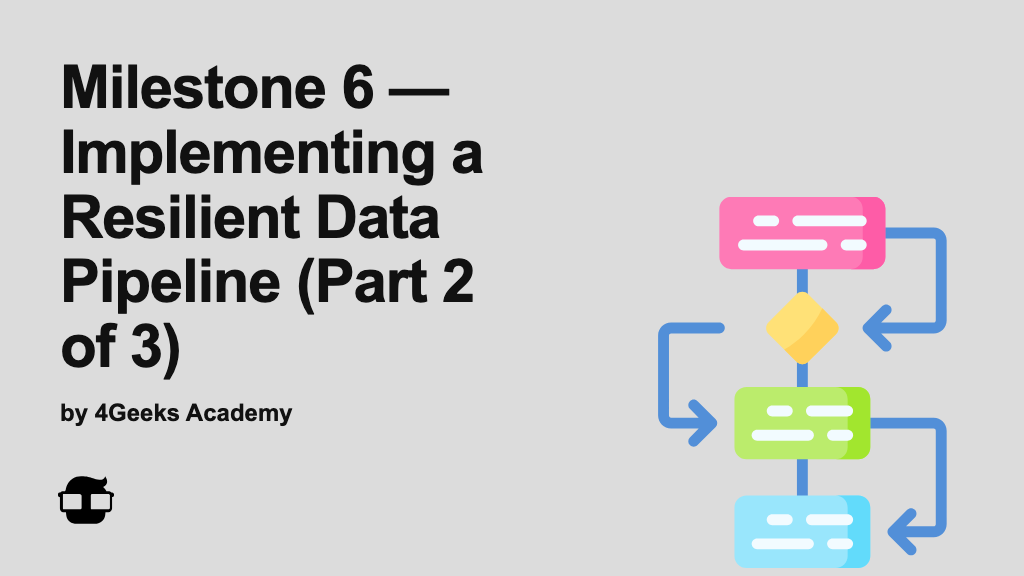
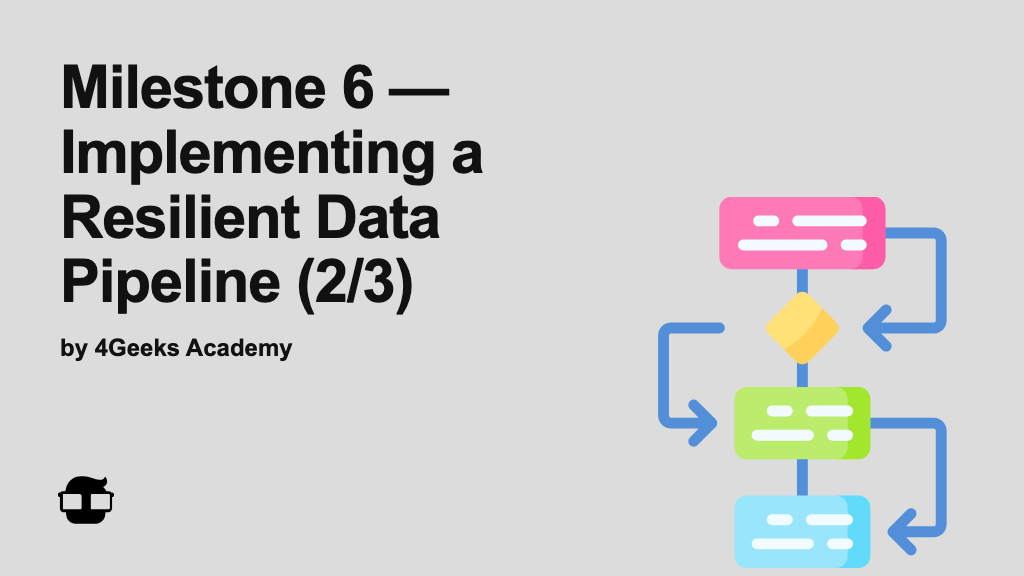
Rename data pipeline milestones

Changed region(s): [[0.3125, 0.4375, 0.4688, 0.5625], [0.0625, 0.5625, 0.2812, 0.6562], [0.0625, 0.6875, 0.2812, 0.75]]

diff --git a/content/projects/ai-eng-milestone-data-pipeline-build/.learn/solution/README.md b/content/projects/ai-eng-milestone-data-pipeline-build/.learn/solution/README.md
@@ -1,4 +1,4 @@
-# Milestone 6 — Implementing a Resilient Data Pipeline (Part 2 of 3) — Reference Solution
+# Milestone 6 — Implementing a Resilient Data Pipeline (2/3) — Reference Solution
 
 This reference solution defines the expected quality bar for deliverables in the student's company monorepo fork:
 

diff --git a/content/projects/ai-eng-milestone-data-pipeline-build/README.es.md b/content/projects/ai-eng-milestone-data-pipeline-build/README.es.md
@@ -1,4 +1,4 @@
-# Implementación de un Data Pipeline Resiliente
+# Hito 6 — Implementación de un Data Pipeline Resiliente (2/3)
 
 <!-- hide -->
 

diff --git a/content/projects/ai-eng-milestone-data-pipeline-build/README.md b/content/projects/ai-eng-milestone-data-pipeline-build/README.md
@@ -1,4 +1,4 @@
-# Implementing a Resilient Data Pipeline
+# Milestone 6 — Implementing a Resilient Data Pipeline (2/3)
 
 <!-- hide -->
 

diff --git a/content/projects/ai-eng-milestone-data-pipeline-design/.learn/solution/README.md b/content/projects/ai-eng-milestone-data-pipeline-design/.learn/solution/README.md
@@ -1,4 +1,4 @@
-# Milestone 6 — Company's Data Pipeline Design (Part 1 of 3) — Reference Solution
+# Milestone 6 — Company's Data Pipeline Design (1/3) — Reference Solution
 
 This reference solution defines the expected quality bar for deliverables in the student's company monorepo fork:
 

diff --git a/content/projects/ai-eng-milestone-data-pipeline-design/README.es.md b/content/projects/ai-eng-milestone-data-pipeline-design/README.es.md
@@ -1,4 +1,4 @@
-# Diseño del pipeline de datos de la compañía
+# Hito 6 — Diseño del pipeline de datos de la compañía (1/3)
 
 <!-- hide -->
 

diff --git a/content/projects/ai-eng-milestone-data-pipeline-design/README.md b/content/projects/ai-eng-milestone-data-pipeline-design/README.md
@@ -1,4 +1,4 @@
-# Company's Data Pipeline Design
+# Milestone 6 — Company's Data Pipeline Design (1/3)
 
 <!-- hide -->
 

diff --git a/content/projects/ai-eng-milestone-data-pipeline-enhancement/.learn/solution/README.md b/content/projects/ai-eng-milestone-data-pipeline-enhancement/.learn/solution/README.md
@@ -1,4 +1,4 @@
-# Milestone 6 — Pipeline Enhancements: Subflows, Tests and Deployment (Part 3 of 3) — Reference Solution
+# Milestone 6 — Company's Data Pipeline Enhancement: Subflows and Tests (3/3) — Reference Solution
 
 This reference solution defines the expected quality bar for deliverables in the student's company monorepo fork:
 

diff --git a/content/projects/ai-eng-milestone-data-pipeline-enhancement/README.es.md b/content/projects/ai-eng-milestone-data-pipeline-enhancement/README.es.md
@@ -1,4 +1,4 @@
-# Hito 6 — Mejoras al Pipeline: Subflows, Tests y Deployment (Parte 3 de 3)
+# Hito 6 — Mejora del pipeline de datos de la compañía: Subflows y tests (3/3)
 
 <!-- hide -->
 

diff --git a/content/projects/ai-eng-milestone-data-pipeline-enhancement/README.md b/content/projects/ai-eng-milestone-data-pipeline-enhancement/README.md
@@ -1,4 +1,4 @@
-# Milestone 6 — Pipeline Enhancements: Subflows, Tests and Deployment (Part 3 of 3)
+# Milestone 6 — Company's Data Pipeline Enhancement: Subflows and Tests (3/3)
 
 <!-- hide -->
 